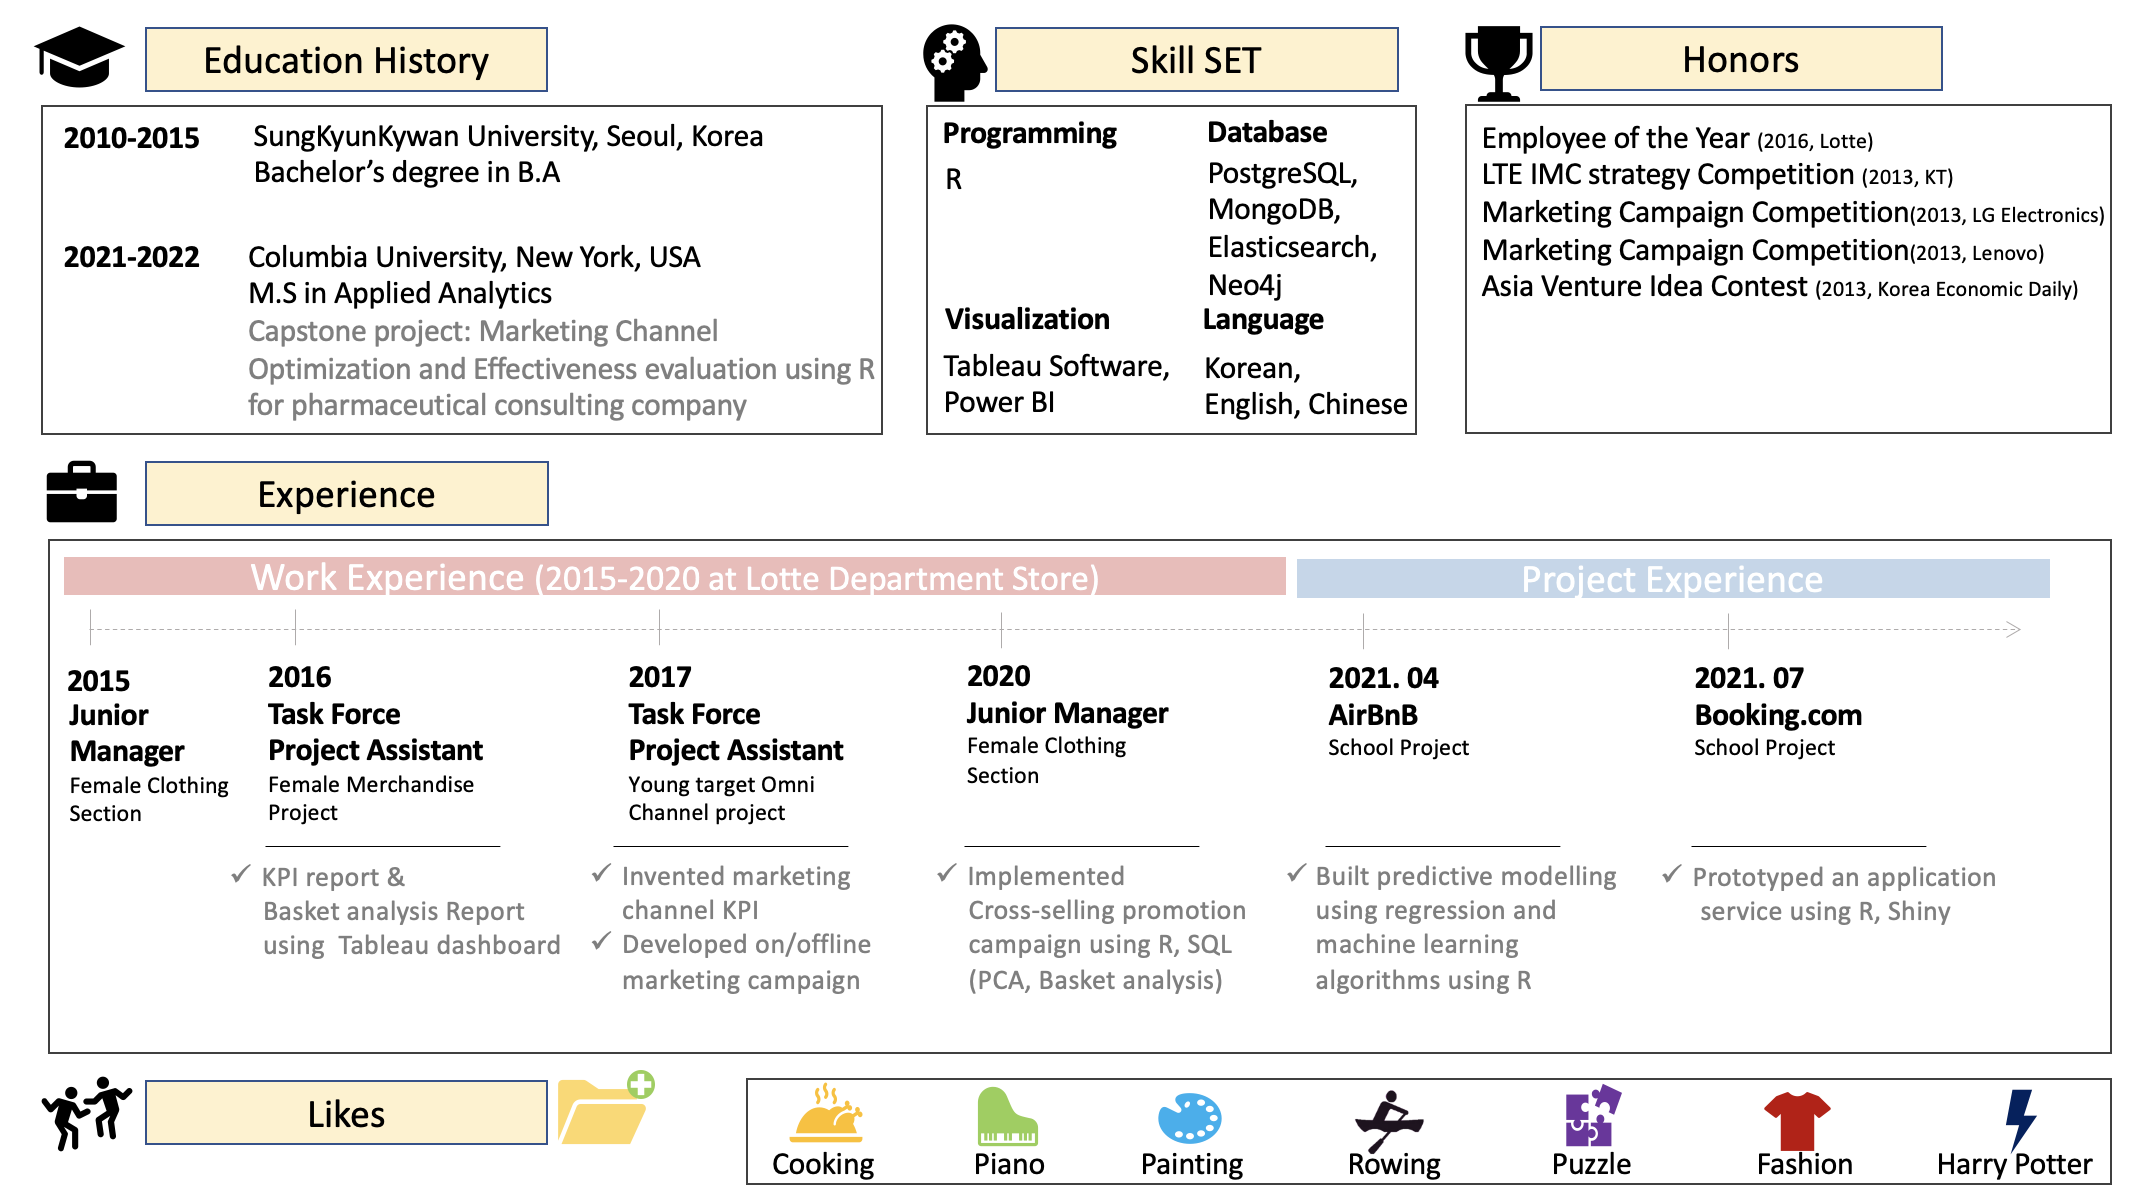
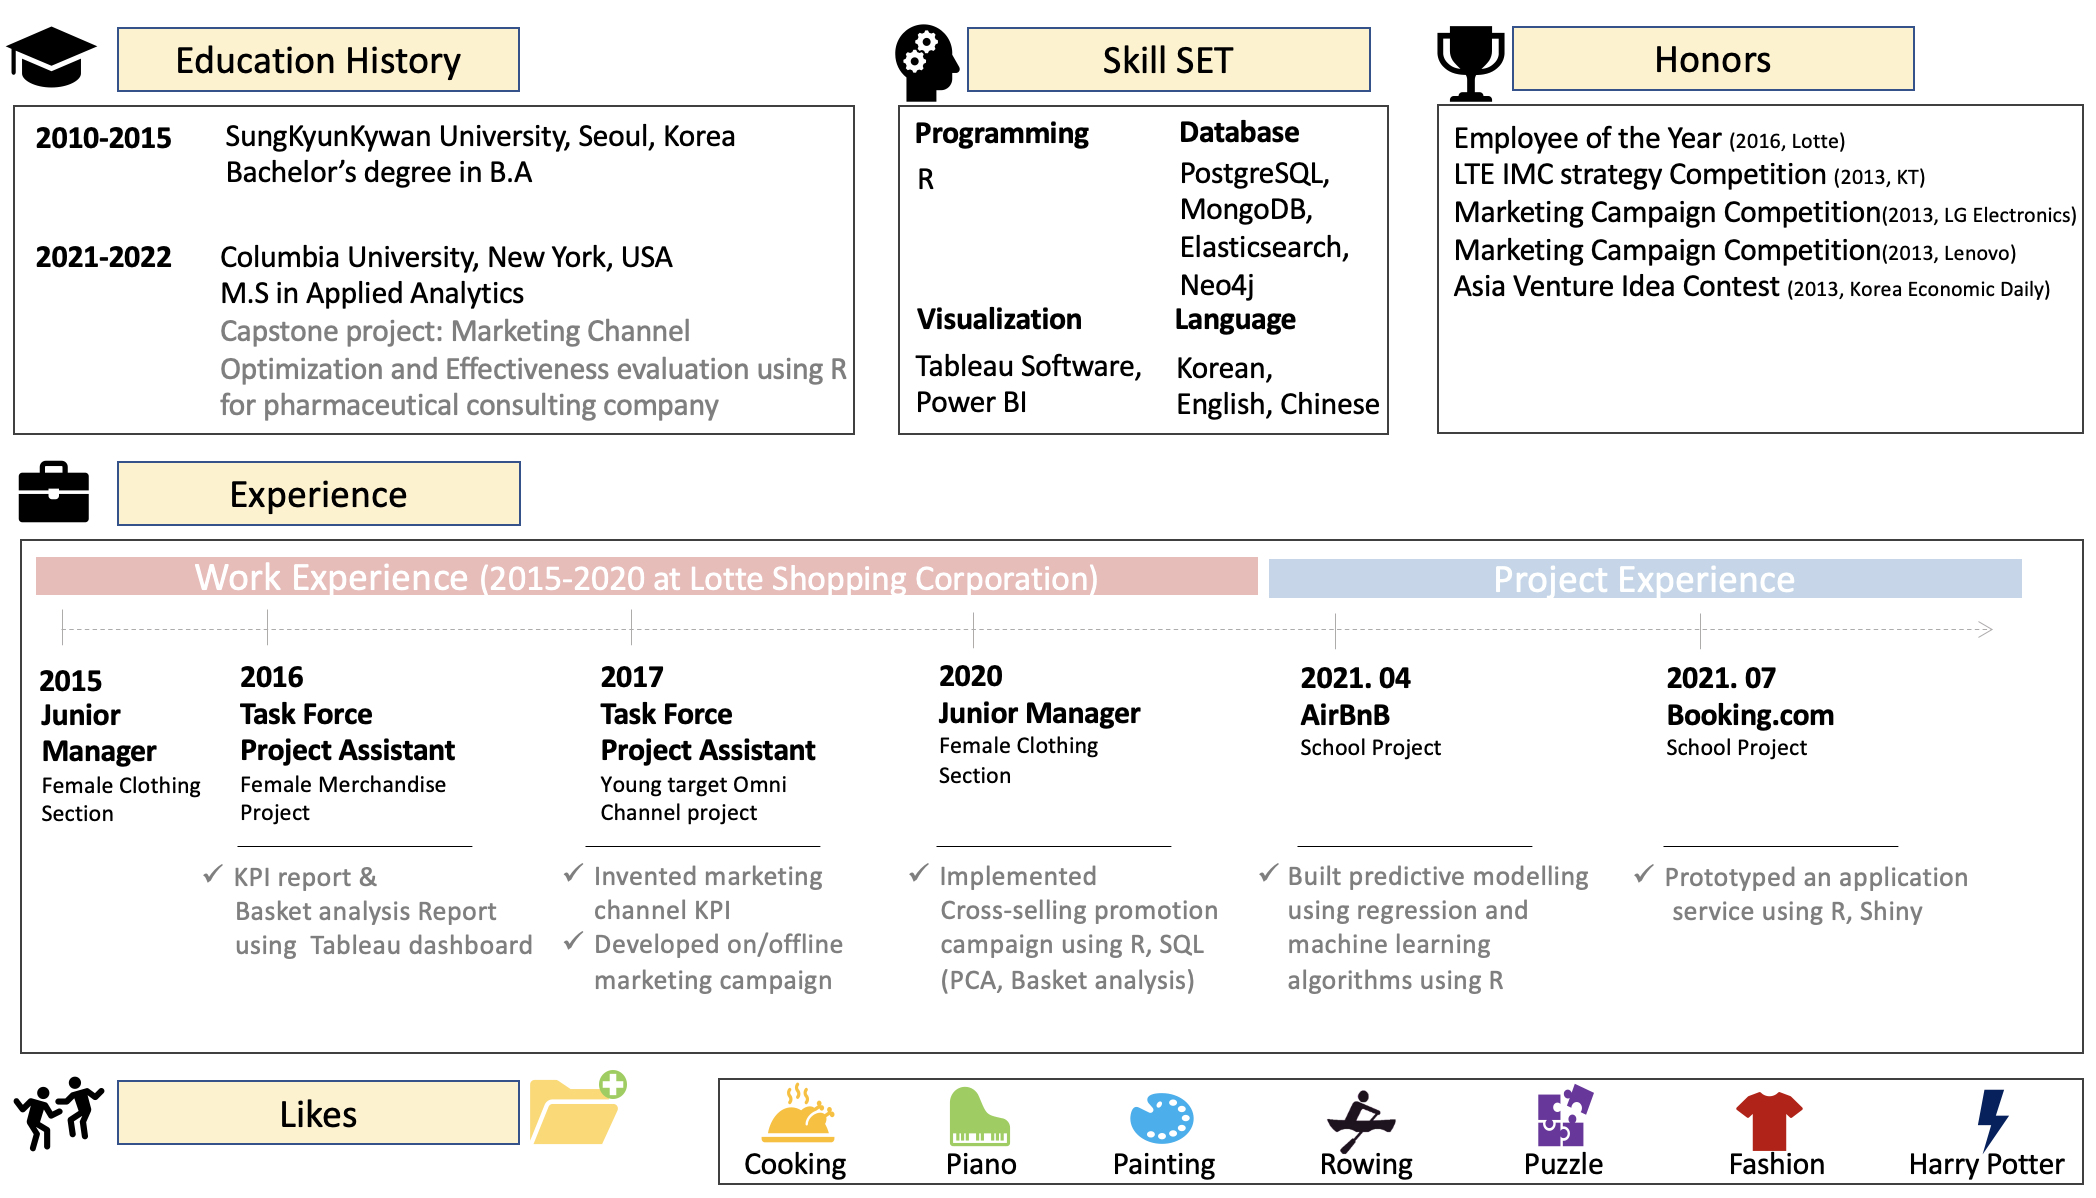
Lotte update
Lotte update

diff --git a/index.html b/index.html
@@ -323,7 +323,7 @@ $(document).ready(function () {
 <p>🎓 Soon to be grad with a M.S. in Applied Analytics at Columbia University (May, 2022). Finished my B.B.A with an emphasis on Quantitative Methods at Sungkyunkwan University (Seoul, Korea).<br></p>
 <p>💪🏽 5+ years with specialties in analyzing customer-driven data from on/offline services and applying insights to actionable strategies.<br> ▪ Programming: R<br> ▪ Data visualization: Tableau Software, Power BI<br> ▪ Database: SQL, Postgre SQL, MongoDB, Elasticsearch, Neo4j<br></p>
 <p>🔥 Aspire to become a leader and designer in data strategy, transformation, and growth to align to customer-centric focus in on/offline business.<br></p>
-<p>👗 Previously, worked as a Data Analyst - Sales and Marketing at Lotte Department Store where I automated the publishing of KPI reports using real-time Tableau dashboards. Designed and implemented cross-selling strategy between cosmetics and female clothing by performing a Principal Component Analysis (PCA) and Market Basket analysis. Mostly worked on deeply diving into customer insights through data using R, SQL, and Microsoft Excel.<br></p>
+<p>👗 Previously, worked as a Data Analyst - Sales and Marketing at Lotte Shopping Corporation where I automated the publishing of KPI reports using real-time Tableau dashboards. Designed and implemented cross-selling strategy between cosmetics and female clothing by performing a Principal Component Analysis (PCA) and Market Basket analysis. Mostly worked on deeply diving into customer insights through data using R, SQL, and Microsoft Excel.<br></p>
 <p>💻 As for my future, I want to become a mind-mining project leader who can read customers’ unmet needs from data and change the world. <br></p>
 <p>🎹 In my free time, I love to row indoors, play the piano/keyboard, or jigsaw puzzles.</p>
 <p><br></p>
